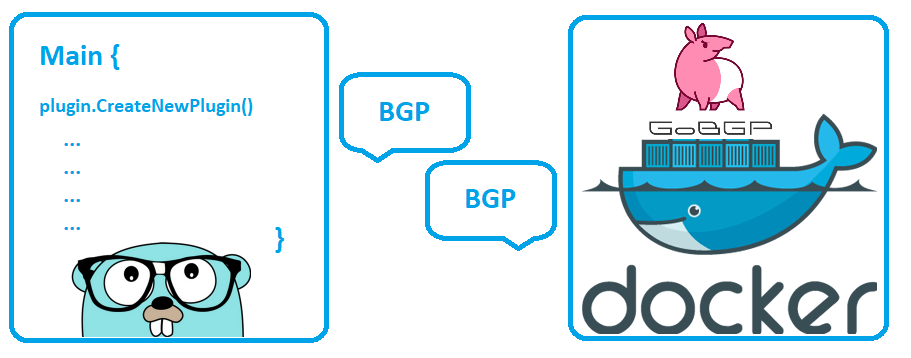
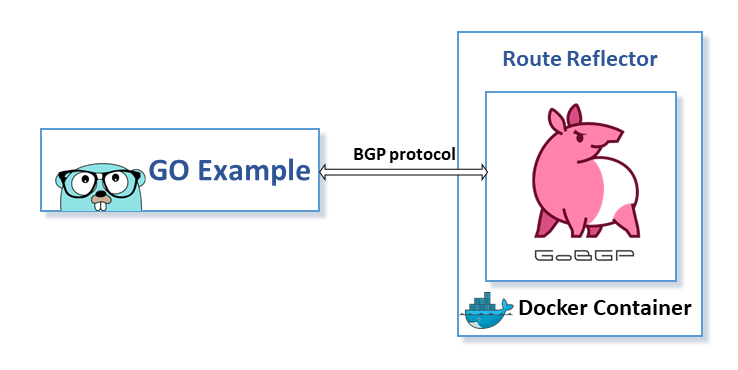
enhanced bgp example/bgp root documentation

Changed region(s): [[0.0, 0.0307, 0.9973, 0.9832], [0.2805, 0.6453, 0.3117, 0.7067], [0.0623, 0.3994, 0.0935, 0.4302]]

diff --git a/example/gobgp/README.md b/example/gobgp/README.md
@@ -1,15 +1,44 @@
 # Ligato GoBGP Plugin Example
 
-Contains an example with full workflow expected for `Ligato BGP Plugin` and how to use it.
-It can be tested running [Route Reflector GoBGP docker](../route-reflector-gobgp-docker) .
-
+The example demonstrates the usage of the `Ligato GoBGP Plugin`.
+### Architecture
 ![arch](../../docs/imgs/dockerGoBGPExample.png "Ligato BGP Agent Example")
+Run the example itself locally and the [Route Reflector](../route-reflector-gobgp-docker) in docker container. The example will communicate with the Route reflector node(implemented by [GoBGP](https://github.com/osrg/gobgp)) using BGP protocol. Any new learned reachable routes from the Route reflector will be retrieved via the `Ligato GoBGP Plugin` and written to the console.
+
+### Infrastructure setup
+To be able to run this example you must setup the infrastructure first.  
+At this point, it is expected that you have:
+ * Installed the docker CE (docker engine version >=1.10). If you haven't please install it(for [ubuntu](https://docs.docker.com/engine/installation/linux/docker-ce/ubuntu/) or [other](https://docs.docker.com/engine/installation/)). 
+ * Installed Go (also properly filled the [GOPATH environment variable](https://github.com/golang/go/wiki/Setting-GOPATH)) 
+ * Downloaded the [Ligato BGP-Agent](https://github.com/ligato/bgp-agent). In case of you haven't, just run:
+```
+go get github.com/ligato/bgp-agent
+```
+Change the path to the  docker folder
+```
+cd $GOPATH/src/github.com/ligato/bgp-agent/docker
+```
+Build the Route reflector docker image
+```
+./build-image-routereflector.sh
+``` 
+Now you should see something like this:
+
+```
+REPOSITORY                 TAG                 IMAGE ID            CREATED             SIZE
+routereflector             latest              a6d47c8559da        11 seconds ago      982MB
+```
+Process of building of the images has downloaded also other images that served as base images in the creation process. You can delete these base images if you want.
+
+To be able to have static ip addresses for running docker images, we need to create separate network that can be used by docker.
+```
+./create-ligato-network-for-docker.sh
+```    
+
 
 ### Example run    
 
-We will need 2 linux terminals. To differentiate commands in terminal we will use different [prompt string](http://www.linuxnix.com/linuxunix-shell-ps1-prompt-explained-in-detail) for each terminal:
-
-* The terminal for Running go example inside the VPP-endpoint docker container. 
+We will need 3 linux terminals. To differentiate commands in terminal we will use different [prompt string](http://www.linuxnix.com/linuxunix-shell-ps1-prompt-explained-in-detail) for each terminal:
 
 `[rr-bgp-server]$` 
 
@@ -17,10 +46,20 @@ We will need 2 linux terminals. To differentiate commands in terminal we will us
 
 `[rr-manual-info-addition]$` 
 
+* The terminal for adding the prefix/nexthop information directly to the BGP server(acting like Route reflector) in the Route reflector docker container. 
+
+`[host-go-runtime]$`
+
+* The terminal for running go example. 
+
 Lets run the example:
 
+<b>1. Start the Route reflector docker containers.</b>
+
+Change the directory so we can use the helper scripts in the Route reflector docker folder 
+
 ```
-[rr-bgp-server]$ cd $GOPATH/src/github.com/ligato/bgp-agent/route-reflector-gobgp-docker
+[rr-bgp-server]$ cd $GOPATH/src/github.com/ligato/bgp-agent/docker
 ```
 Start the route reflector docker container
 ```
@@ -29,14 +68,21 @@ Start the route reflector docker container
 
 <b>2. Run the go code example</b> 
 
-Run the main application, it will initially take around ~20 seconds to establish session. 
-Then it will be ready and waiting for any path advertizement reception.
+Switch to `[host-go-runtime]` terminal and change directory to gobgp example directory
+```
+[host-go-runtime]$ cd $GOPATH/src/github.com/ligato/bgp-agent/example/gobgp
+```
+Run the main application
+```
+[host-go-runtime]$ go run base.go
+```
+It will initially take around ~20 seconds to establish session.Then it will be ready and waiting for any path advertizement reception.
 
 <b>3. Add new route information to the Route reflector</b>
 
 Switch to the ```[rr-manual-info-addition]``` terminal and change the directory so we can use the helper scripts in the route reflector docker folder
 ```
-[rr-manual-info-addition]$ cd $GOPATH/src/github.com/ligato/bgp-agent/route-reflector-gobgp-docker
+[rr-manual-info-addition]$ cd $GOPATH/src/github.com/ligato/bgp-agent/docker
 ```
 Connect to the bash console inside the Route reflector docker container
 ```
@@ -49,25 +95,30 @@ Add new prefix(`101.0.0.0/24`)/nexthop(`192.168.1.1`) information to the Route r
 
 <b>4. Verify the advertizement of the path</b>
  
-In console we should see that new path arrived to `Ligato BGP Plugin` and it was notified to the subscribed channel.
+Switch back to `[host-go-runtime]` terminal. You should see that new path arrived to `Ligato BGP Plugin` and it was notified to the subscribed channel.
 ```
 "Agent received new path {65001 101.0.0.0/24 101.0.10.1}"
 ```
 
-<b>5. Finish example</b>
+<b>5. Observe the automatic end of the example</b>
 
-Upon reception of the information, and propagation through the channel, example will finish closing the plugin and ending the application.
+Upon reception of the information, and propagation through the channel, the example will finish closing the plugin and ending the application. You can observe that in `[host-go-runtime]` terminal. 
 
 ### Plugin workflow    
+Plugin Example and goBGP are created and passed to `Ligato CN-infra agent` for handling their lifecycle:
 
-![arch](../../docs/imgs/pluginworkflow.png "Ligato BGP Plugin workflow")
+![arch](../../docs/imgs/bgpexamplelifecycle.png "Ligato BGP Plugin workflow")
 
 `Ligato BGP Plugin` workflow consist on 4 steps:
 
-<b>1</b> Create the plugin
+<b>1a-1b</b> By goBGP plugin initialization, GoBGP server is created.
 
-<b>2</b> Register/subscribe consumer to notifications for any new learned IP-based routes via WatchIPRoutes method
+<b>2a-2d</b> Example plugin is initialized. It calls `WatchIPRoutes(...)` to become registered watcher. GoBGP plugin registers the Example plugin as watcher and returns to it `WatchRegistration`. The `WatchRegistration` will serve later for registration cancellation.   
 
-<b>3</b> Initialize plugin config and start plugin via Init method
+<b>3a-3b</b> GoBGP plugin starts GoBGP server. From this point, the Example plugin will receive new advertized routes until registration cancelation (or GoBGP server stop).
 
-<b>4</b> Finally clean up and close the plugin via Close method
+<b>4a-4c</b> Closing of the Example plugin will trigger registration cancellation (call to `Close()` on `WatchRegistration`).
+
+<b>5a-5b</b> Closing of GoBGP plugin will also stop the GoBGP server.
+
+This workflow was examplary and the order of plugins in which it is called `Init()` is not important. Important is that all watcher plugins must register before the start of GoBGP server, i.e. in their `Init()`. Also order of closing is not important, because watcher either calls `Close()` on `WatchRegistration` and stop watching or GoBGP server stops and watcher won't get anything from that point on. 
